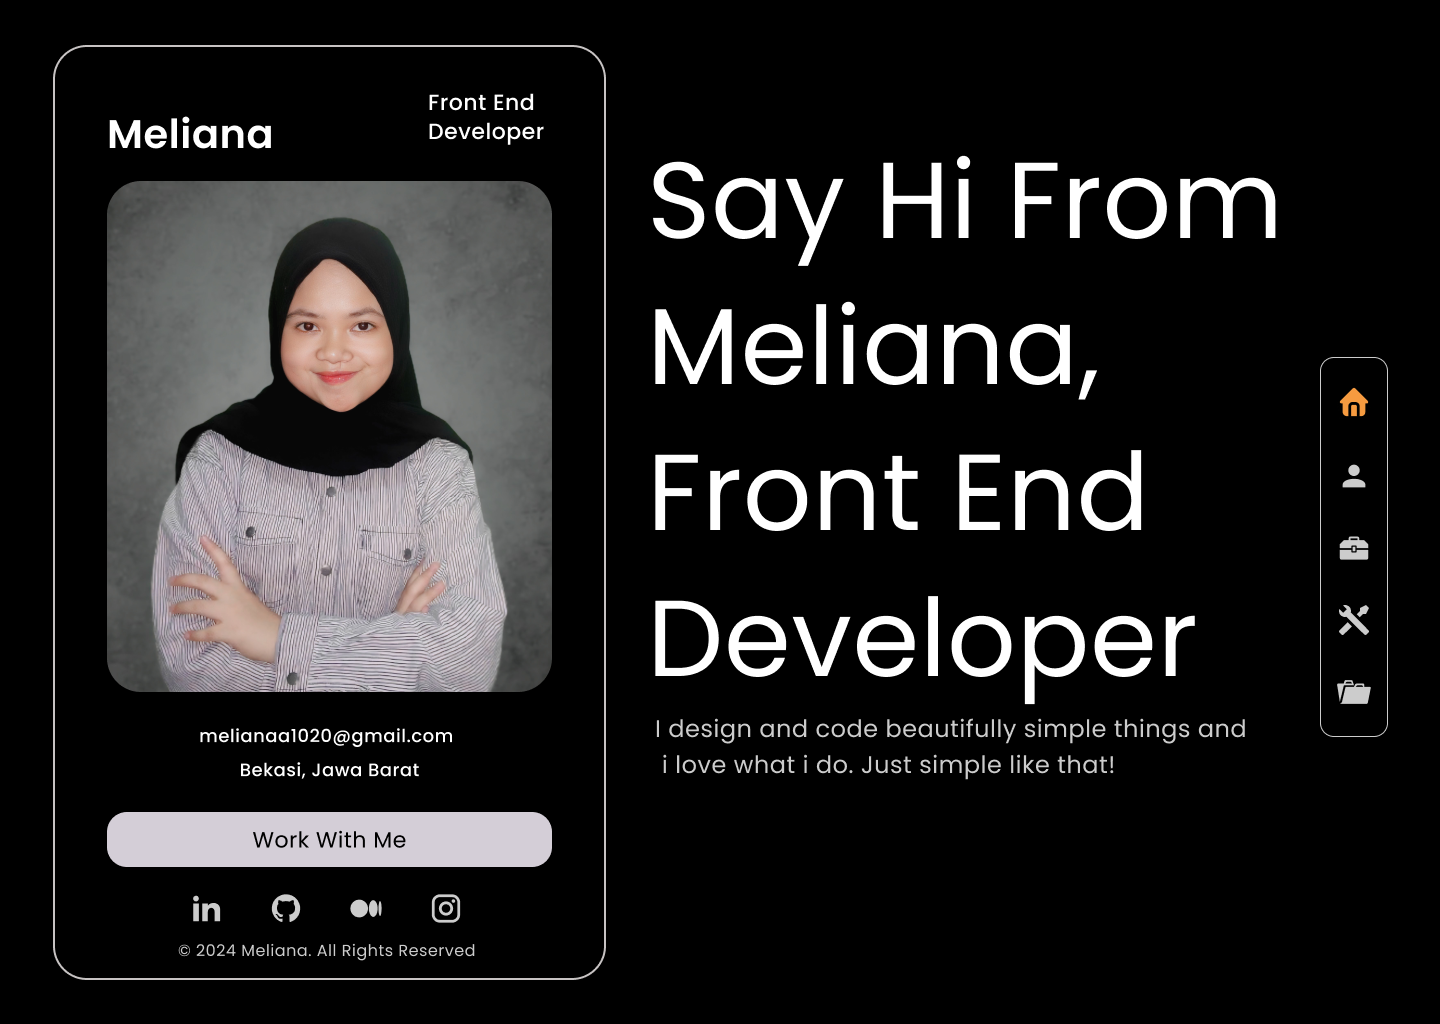
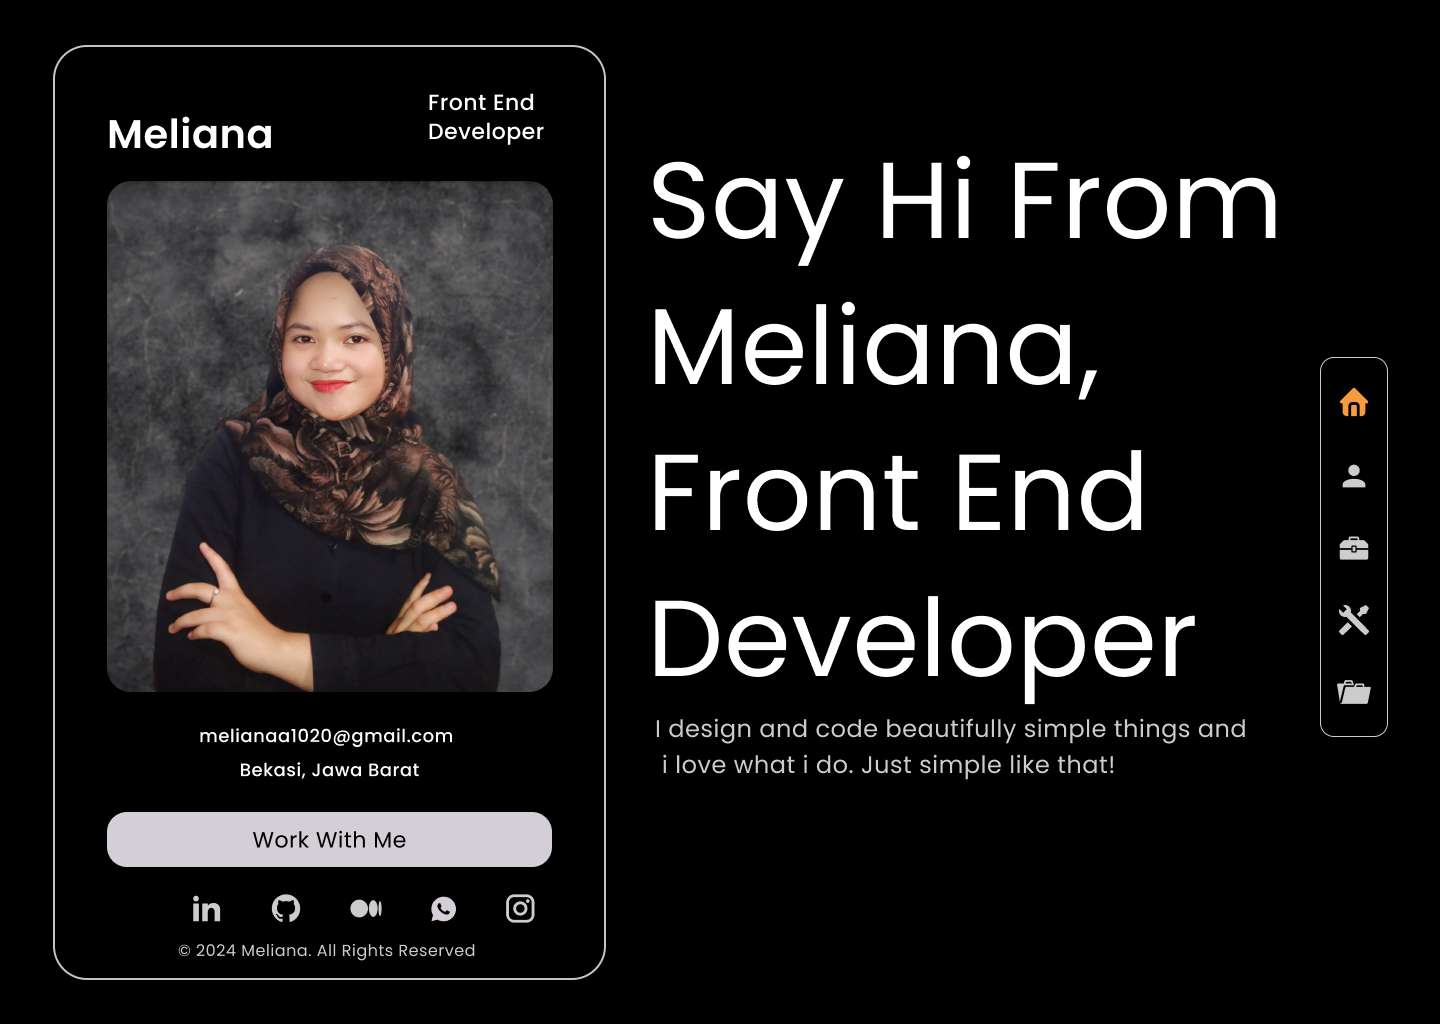
update responsive and layout

Changed region(s): [[0.0625, 0.1562, 0.4062, 0.6875], [0.2812, 0.875, 0.375, 0.9062]]

diff --git a/src/Components/Layouts/CardLayout.jsx b/src/Components/Layouts/CardLayout.jsx
@@ -5,21 +5,23 @@ const CardLayout = () => {
         <div className="rounded-lg shadow-lg py-4 px-4 w-full text-center text-white border sm:max-w-sm">
           <div className="flex flex-row sm:flex-row items-center sm:justify-between sm:gap-4 gap-20 mb-2 sm:mb-">
             <h1 className="text-2xl font-base mt-2 sm:mb-0 md:text-2xl lg:text-3xl">Meliana</h1>
-            <p className="text-sm md:text-sm sm:mt-2">Front End Developer</p>
+            <p className="text-base md:text-sm sm:mt-2">Front End Developer</p>
           </div>
           <img
-            className="rounded-lg mx-auto w-full sm:w-full h-auto"
-            src="/profile.jpg"
+            className="rounded-lg mx-auto w-full h-auto sm:w-full"
+            src="/profile2.jpg"
             alt="Meliana"
           />
-          <div className="m-2">
-            <p className="text-xs md:text-sm ">melianaa1020@gmail.com</p>
-            <p className="text-xs md:text-sm">Purbalingga, Jawa Tengah</p>
+          
+          <div className="mb-2 mt-4 sm:m-2 flex flex-col items-center">
+            <p className=" text-lg font-bold md:text-sm mb-2 sm:m-22">Purbalingga, Jawa Tengah</p>
+            <p className="text-sm md:text-sm">melianaa1020@gmail.com</p>
           </div>
-          <button className="bg-gray-300 text-black text-xs md:text-sm font-medium py-2 px-4 rounded-lg w-full">
+          <button className="mt-2 bg-gray-300 text-black text-xs md:text-sm font-medium py-2 px-4 rounded-lg w-full">
             Download CV
           </button>
-          <div className="flex justify-center gap-8 mt-4">
+
+          <div className="flex justify-center gap-8 mt-4 sm:mt-2 ">
             <img 
               className="w-6 h-8 md:w-8 md:h-8 brightness-100 hover:brightness-50" 
               src="/linkedin.svg" 
@@ -53,7 +55,12 @@ const CardLayout = () => {
               }
               />
           </div>
-          <div className="flex justify-center mt-4">
+          {/* <div className="mb-4 mt-4 sm:m-2 flex flex-col items-start">
+            <p className="text-xs md:text-sm mb-2 sm:m-22">melianaa1020@gmail.com</p>
+            <p className="text-xs md:text-sm">Purbalingga, Jawa Tengah</p>
+          </div> */}
+          
+          <div className="flex justify-center mt-4 sm:mt-2">
             <p className="text-xs md:text-sm">© 2024 Meliana. All Rights Reserved</p>
           </div>
         </div>

diff --git a/src/Components/Layouts/ProfileContent.jsx b/src/Components/Layouts/ProfileContent.jsx
@@ -1,5 +1,3 @@
-import { motion } from "framer-motion";
-import { fadeIn } from "../Elements/Motion/variant";
 
 const ProfileContent = () => {
   return (
@@ -9,12 +7,6 @@ const ProfileContent = () => {
         <p className="pl-2 text-xs">ABOUTE ME</p>
       </div>
 
-      <motion.div
-        variants={fadeIn("up", 0.1)}
-        initial="hidden"
-        whileInView={"show"}
-        viewport={{ once: false, amount: 0.3 }}
-      >
         <div className="relative flex items-center">
           <div className="text-xl font-semibold">
             <div className="flex flex-row">
@@ -28,9 +20,25 @@ const ProfileContent = () => {
             <div className="flex flex-row">
               <div className="bg-zinc-200 rounded-xl w-2 h-2 m-2"></div>
               <p className="text-medium font-normal">
+                Email : melianaa1020@gmail.com
+              </p>
+            </div>
+            
+            <div>
+            <div className="flex flex-row">
+              <div className="bg-zinc-200 rounded-xl w-2 h-2 m-2"></div>
+              <p className="text-medium font-normal">
+                Adress : Puurbalingga, Jawa Tengah
+              </p>
+            </div>
+            <div className="flex flex-row">
+              <div className="bg-zinc-200 rounded-xl w-2 h-2 m-2"></div>
+              <p className="text-medium font-normal">
                 Phone : +62-857-1835-4228
               </p>
             </div>
+            </div>
+            
           </div>
         </div>
 
@@ -56,7 +64,6 @@ const ProfileContent = () => {
         </div>
 
         <footer className="mt-10"></footer>
-      </motion.div>
     </div>
   );
 };

diff --git a/src/Components/Elements/SidebarMenu/sidebarMenu.jsx b/src/Components/Elements/SidebarMenu/sidebarMenu.jsx
@@ -10,7 +10,7 @@ const SidebarMenu = () => {
         spy={true}
         smooth={true}
         offset={-100}
-        duration={500}
+        duration={50}
         className="p-4 sm:py-5"
       >
         <img
@@ -26,7 +26,7 @@ const SidebarMenu = () => {
         spy={true}
         smooth={true}
         offset={-100}
-        duration={500}
+        duration={50}
         className="p-4 sm:py-5"
       >
         <img
@@ -42,7 +42,7 @@ const SidebarMenu = () => {
         spy={true}
         smooth={true}
         offset={-100}
-        duration={500}
+        duration={50}
         className="p-4 sm:py-5"
       >
         <img
@@ -58,7 +58,7 @@ const SidebarMenu = () => {
         spy={true}
         smooth={true}
         offset={-100}
-        duration={500}
+        duration={50}
         className="p-4 sm:py-5"
       >
        <img
@@ -74,7 +74,7 @@ const SidebarMenu = () => {
         spy={true}
         smooth={true}
         offset={-100}
-        duration={500}
+        duration={50}
         className="p-4 sm:py-5"
       >
         <img

diff --git a/src/Components/Layouts/HomeContent.jsx b/src/Components/Layouts/HomeContent.jsx
@@ -10,10 +10,10 @@ const HomeContent = () => {
             <p className="text-lg mb-4 text-neutral-500 mt-2 sm:mr-20">
             I enjoy designing and transforming designs into efficient code. My
             enthusiasm for creating
-            <p>
+            
             beautiful and functional websites is always my motivation, and I
             love what I do.{" "}
-          </p>
+          
         </p>
         <footer className="mt-10"></footer>
       </div>

diff --git a/index.html b/index.html
@@ -2,7 +2,7 @@
 <html lang="en">
   <head>
     <meta charset="UTF-8" />
-    <link rel="icon" type="image/svg+xml" href="/public/profile.jpg" />
+    <link rel="icon" type="image/svg+xml" href="/profile2.jpg" />
     <link
       href="https://fonts.googleapis.com/css2?family=Poppins:ital,wght@0,100;0,200;0,300;0,400;0,500;0,600;0,700;0,800;0,900;1,100;1,200;1,300;1,400;1,500;1,600;1,700;1,800;1,900&display=swap"
       rel="stylesheet"
